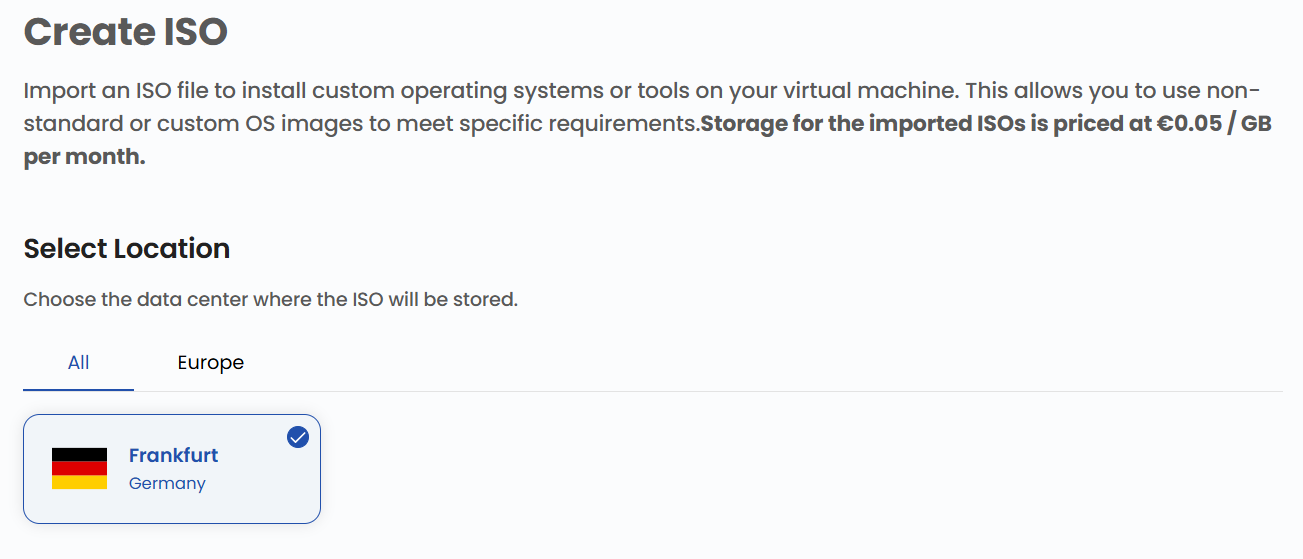
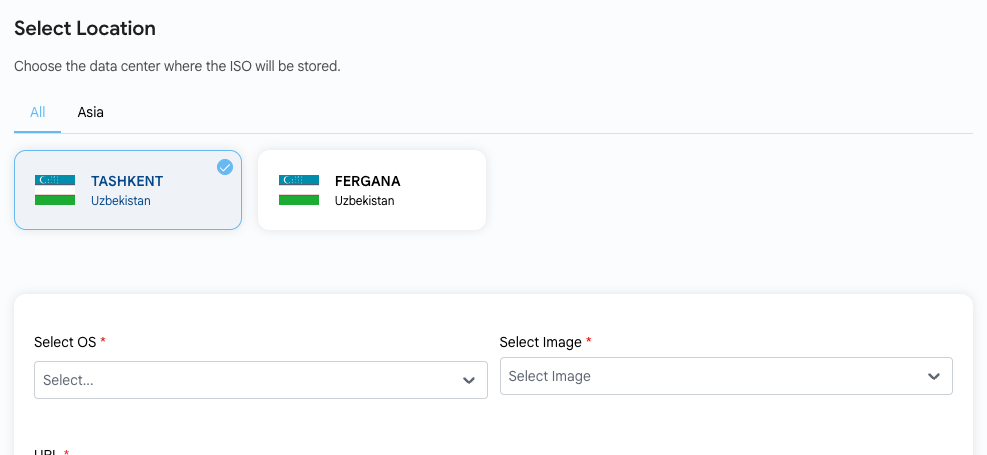
docs: update ISO guide after console review

diff --git a/ru/isos/import-iso.md b/ru/isos/import-iso.md
@@ -2,61 +2,48 @@
 
 ## ISO-образ
 
-**ISO-образ** (по названию стандарта ISO — International Organization for Standardization) — это файл образа диска, содержащий точную копию файловой системы. В UzCloud ISO-образы используются для создания виртуальных машин, установки операционных систем и восстановления системы. В этом руководстве описано, как импортировать ISO-образ в UzCloud, управлять им и использовать его.
+**ISO-образ** — файл образа диска, содержащий точную копию файловой системы. В UzCloud можно импортировать собственный ISO-образ, чтобы установить на виртуальную машину нестандартную операционную систему или инструменты.
 
 ---
 
-### Создание ISO-образа
+### Импорт ISO-образа
 
-- В меню слева откройте вкладку **ISOs**.
-- Чтобы добавить ISO, нажмите **ISOs** или значок **плюс (+)** в правой части страницы. Откроется меню создания ISO.
+- В меню слева нажмите **ISO**. На странице отображаются ваши ISO-образы.
+- Нажмите **Create ISO**. Откроется страница **Create ISO**.
 
-![Страница ISO](../../images/iso-1.png)
+![ISO](../../images/iso-1.png)
 
-### Выбор расположения
+- Выберите проект, к которому будет относиться ISO-образ.
 
-- Выберите дата-центр, в котором будет храниться ISO-образ.
-- Выберите одно из доступных расположений.
+![Выбор проекта](../../images/iso-2.png)
 
-![Выбор расположения](../../images/iso-2.png)
+- Выберите расположение, в котором будет храниться ISO-образ.
 
-### Привязка к проекту
-
-- Привяжите ISO-образ к одному из ваших проектов, чтобы удобно организовывать ресурсы и управлять ими.
-
-![Привязка к проекту](../../images/iso-3.png)
+![Выбор расположения](../../images/iso-3.png)
 
 ### Параметры ISO
 
-При создании ISO нужно заполнить несколько обязательных полей:
+- **Select OS** — операционная система ISO-образа.
+- **Select Image** — тип образа.
+- **URL** — ссылка на ISO-файл, который будет импортирован.
+- **Name** и **Description** — имя и краткое описание ISO-образа.
 
-- **Operating System** — ОС для ISO-образа (например, Windows, Linux, macOS).
-- **OS Version** — конкретная версия выбранной ОС (например, Windows 11, Ubuntu 22.04).
-- **Image** — файл, из которого будет создан ISO.
-- **URL** — корректная ссылка, если ISO-образ размещен в интернете.
-- **Name** — имя ISO-файла для удобной идентификации.
-- **Description** — краткое описание содержимого или назначения ISO.
+Дополнительные параметры:
 
-Также можно выбрать дополнительные параметры:
+- **Password Enabled** — образ поддерживает установку пароля.
+- **Is Bootable** — с этого ISO можно загрузить ВМ (например, для установки ОС).
+- **Is Extractable** — ISO-образ можно скачать (извлечь) после импорта.
 
-- **Password Enabled** — для доступа к содержимому ISO потребуется пароль, что добавляет уровень защиты.
-- **Is Bootable** — определяет, можно ли загружать систему с этого ISO. Если параметр включен, ISO можно записать на USB/DVD и использовать для установки или запуска ОС.
-- **Is Extractable** — позволяет открывать и распаковывать ISO как обычный архив без специальных программ для монтирования.
+Проверьте **Price Summary** (стоимость хранения ISO рассчитывается за ГБ в час) и нажмите **Review & Create ISO**.
 
 ![Параметры ISO](../../images/iso-4.png)
 
-### Создание ISO
-
-- Выберите нужный **Billing Cycle**. Для ISO поддерживается почасовая оплата.
-- Поддерживаемые правила биллинга: Date to Date, Fixed Calendar Month, Unfixed Calendar Month, Fixed Prorata и Unfixed Prorata.
-- Для ISO поддерживается только один пакет на зону — это простая модель учета использования загрузочных образов.
-- Проверьте все параметры и итоговую стоимость. Нажмите **Review & Create ISO**, чтобы создать ISO для проекта.
-
-![Создание ISO](../../images/iso-5.png)
+> [!TIP]
+> Чтобы подключить ISO-образ к виртуальной машине, нажмите **Attach ISO To This Virtual Machine** на странице ВМ.
 
 ### Заключение
 
-Следуя этому руководству, вы легко создадите ISO-образы в UzCloud и сможете управлять ими. ISO-образы — универсальный способ развертывания операционных систем, создания виртуальных машин и восстановления системы. Если нужна помощь, изучите документацию UzCloud или обратитесь в поддержку.
+ISO-образы позволяют установить на виртуальные машины любую операционную систему или инструменты. Если нужна помощь, изучите документацию UzCloud или обратитесь в поддержку.
 
 > [!TIP]
 > **См. также:**

diff --git a/uz/isos/import-iso.md b/uz/isos/import-iso.md
@@ -2,61 +2,48 @@
 
 ## ISO obraz
 
-**ISO obraz** (ISO — International Organization for Standardization standarti nomidan) — fayl tizimining aniq nusxasini oʻz ichiga olgan disk obrazi fayli. UzCloud’da ISO obrazlar virtual mashinalar yaratish, operatsion tizimlarni oʻrnatish va tizimni tiklash uchun ishlatiladi. Ushbu qoʻllanmada UzCloud’ga ISO obrazni import qilish, uni boshqarish va undan foydalanish tushuntiriladi.
+**ISO obraz** — fayl tizimining aniq nusxasini oʻz ichiga olgan disk obrazi fayli. UzCloud’da virtual mashinaga nostandart operatsion tizim yoki vositalarni oʻrnatish uchun oʻz ISO obrazingizni import qilish mumkin.
 
 ---
 
-### ISO obraz yaratish
+### ISO obrazni import qilish
 
-- Chap menyuda **ISOs** yorligʻini oching.
-- ISO qoʻshish uchun sahifaning oʻng tomonidagi **ISOs** yoki **plyus (+)** belgisini bosing. ISO yaratish menyusi ochiladi.
+- Chap menyuda **ISO** ni bosing. Sahifada ISO obrazlaringiz koʻrsatiladi.
+- **Create ISO** tugmasini bosing. **Create ISO** sahifasi ochiladi.
 
-![ISO sahifasi](../../images/iso-1.png)
+![ISO](../../images/iso-1.png)
 
-### Joylashuvni tanlash
+- ISO obraz tegishli boʻladigan loyihani tanlang.
 
-- ISO obraz saqlanadigan maʼlumotlar markazini tanlang.
-- Mavjud joylashuvlardan birini tanlang.
+![Loyihani tanlash](../../images/iso-2.png)
 
-![Joylashuvni tanlash](../../images/iso-2.png)
+- ISO obraz saqlanadigan joylashuvni tanlang.
 
-### Loyihaga biriktirish
-
-- Resurslarni qulay tartibga solish va boshqarish uchun ISO obrazni loyihalaringizdan biriga biriktiring.
-
-![Loyihaga biriktirish](../../images/iso-3.png)
+![Joylashuvni tanlash](../../images/iso-3.png)
 
 ### ISO parametrlari
 
-ISO yaratishda bir nechta majburiy maydonlarni toʻldirish kerak:
+- **Select OS** — ISO obrazning operatsion tizimi.
+- **Select Image** — obraz turi.
+- **URL** — import qilinadigan ISO faylga havola.
+- **Name** va **Description** — ISO obraz nomi va qisqacha tavsifi.
 
-- **Operating System** — ISO obraz uchun OT (masalan, Windows, Linux, macOS).
-- **OS Version** — tanlangan OT’ning aniq versiyasi (masalan, Windows 11, Ubuntu 22.04).
-- **Image** — ISO yaratiladigan fayl.
-- **URL** — agar ISO obraz internetda joylashgan boʻlsa, toʻgʻri havola.
-- **Name** — oson aniqlash uchun ISO fayl nomi.
-- **Description** — ISO tarkibi yoki maqsadining qisqacha tavsifi.
+Qoʻshimcha parametrlar:
 
-Shuningdek, qoʻshimcha parametrlarni tanlash mumkin:
+- **Password Enabled** — obraz parol oʻrnatishni qoʻllab-quvvatlaydi.
+- **Is Bootable** — VM’ni ushbu ISO’dan yuklash mumkin (masalan, OT oʻrnatish uchun).
+- **Is Extractable** — import qilingandan soʻng ISO obrazni yuklab olish mumkin.
 
-- **Password Enabled** — ISO tarkibiga kirish uchun parol talab qilinadi, bu qoʻshimcha himoya qatlamini qoʻshadi.
-- **Is Bootable** — ushbu ISO’dan tizimni yuklash mumkinligini belgilaydi. Parametr yoqilgan boʻlsa, ISO’ni USB/DVD’ga yozib, OT’ni oʻrnatish yoki ishga tushirish uchun ishlatish mumkin.
-- **Is Extractable** — ISO’ni maxsus montaj dasturlarisiz oddiy arxiv kabi ochish va chiqarib olish imkonini beradi.
+**Price Summary** ni tekshiring (ISO’ni saqlash narxi har bir GB uchun soatiga hisoblanadi) va **Review & Create ISO** tugmasini bosing.
 
 ![ISO parametrlari](../../images/iso-4.png)
 
-### ISO yaratish
-
-- Kerakli **Billing Cycle** ni tanlang. ISO uchun soatlik toʻlov qoʻllab-quvvatlanadi.
-- Qoʻllab-quvvatlanadigan billing qoidalari: Date to Date, Fixed Calendar Month, Unfixed Calendar Month, Fixed Prorata va Unfixed Prorata.
-- ISO uchun har bir zonada faqat bitta paket qoʻllab-quvvatlanadi — bu yuklanadigan obrazlardan foydalanishni hisobga olishning oddiy modeli.
-- Barcha parametrlarni va umumiy narxni tekshiring. Loyiha uchun ISO yaratish maqsadida **Review & Create ISO** tugmasini bosing.
-
-![ISO yaratish](../../images/iso-5.png)
+> [!TIP]
+> ISO obrazni virtual mashinaga ulash uchun VM sahifasida **Attach ISO To This Virtual Machine** ni bosing.
 
 ### Xulosa
 
-Ushbu qoʻllanmaga amal qilib, siz UzCloud’da ISO obrazlarni osongina yaratishingiz va boshqarishingiz mumkin. ISO obrazlar operatsion tizimlarni joylashtirish, virtual mashinalar yaratish va tizimni tiklashning universal usulidir. Yordam kerak boʻlsa, UzCloud hujjatlarini oʻrganing yoki qoʻllab-quvvatlash xizmatiga murojaat qiling.
+ISO obrazlar virtual mashinalarga istalgan operatsion tizim yoki vositalarni oʻrnatish imkonini beradi. Yordam kerak boʻlsa, UzCloud hujjatlarini oʻrganing yoki qoʻllab-quvvatlash xizmatiga murojaat qiling.
 
 > [!TIP]
 > **Shuningdek qarang:**

diff --git a/en/isos/import-iso.md b/en/isos/import-iso.md
@@ -2,61 +2,48 @@
 
 ## ISO Image
 
-An **ISO (International Organization for Standardization)** image is a disk image file that contains an exact copy of a filesystem. In UzCloud, ISO images are used to create virtual machines, install operating systems, or perform system recovery. This guide explains how to import, manage, and deploy an ISO image in UzCloud.
+An **ISO image** is a disk image file that contains an exact copy of a file system. In UzCloud, you can import your own ISO image to install custom operating systems or tools on a virtual machine.
 
 ---
 
-### Creating an ISO Image
+### Importing an ISO Image
 
-- From the left-hand side menu, click on the **ISOs** tab.
-- To create an ISO, click the **ISOs** or **plus (+)** icon located on the right side of the page. This will open the ISO creation menu.
+- From the left-hand menu, click **ISO**. The page shows your ISO images.
+- Click **Create ISO**. The **Create ISO** page opens.
 
-![ISOs Page](../../images/iso-1.png)
+![ISO](../../images/iso-1.png)
 
-### Choose a Location
+- Select the project to which the ISO will belong.
 
-- Select the data center location where your ISO will be stored.
-- Choose from the available locations listed.
+![Choose Project](../../images/iso-2.png)
 
-![Choose Location](../../images/iso-2.png)
+- Select the location where the ISO will be stored.
 
-### Assign to a Project
-
-- Assign the ISO to one of your projects to organize and manage resources effectively.
-
-![Assign to Project](../../images/iso-3.png)
+![Choose Location](../../images/iso-3.png)
 
 ### ISO Details
 
-When creating an ISO, you need to fill out the details with several required fields:
+- **Select OS** — the operating system of the ISO image.
+- **Select Image** — the image type.
+- **URL** — a link to the ISO file that will be imported.
+- **Name** and **Description** — a name and a short description of the ISO.
 
-- **Operating System**: Choose the OS you want for the ISO (e.g., Windows, Linux, macOS).
-- **OS Version**: Select the specific version of the chosen OS (e.g., Windows 11, Ubuntu 22.04).
-- **Image**: Select the actual file that will be used to create the ISO.
-- **URL**: Provide a valid URL if the ISO is hosted online.
-- **Name**: Give your ISO file a name for easy identification.
-- **Description**: Write a short description of what the ISO contains or its purpose.
+Optional settings:
 
-Additionally, you can select from advanced options for the ISO:
+- **Password Enabled** — the image supports setting a password.
+- **Is Bootable** — the VM can boot from this ISO (for example, to install an OS).
+- **Is Extractable** — the ISO can be downloaded (extracted) after import.
 
-- **Password Enabled**: If selected, the ISO will require a password to access its contents, adding an extra layer of security.
-- **Is Bootable**: This determines whether the ISO can be used to boot a system. If enabled, the ISO can be written to a USB/DVD and used to install or run an OS.
-- **Is Extractable**: This option allows the ISO to be opened and extracted like a normal archive without requiring special mounting software.
+Check the **Price Summary** (the cost of storing the ISO is calculated per GB per hour) and click **Review & Create ISO**.
 
 ![ISO Details](../../images/iso-4.png)
 
-### Create ISO
-
-- Choose the desired **Billing Cycle** for your ISO. ISO supports Hourly billing cycles.
-- The billing rules supported include Date to Date, Fixed Calendar Month, Unfixed Calendar Month, Fixed Prorata, and Unfixed Prorata.
-- Only one package per zone is supported for ISO. This provides a straightforward model for managing bootable image usage.
-- Verify all the configuration details and review the price summary. Click on **Review & Create ISO** to create the ISO for your project.
-
-![Create ISO](../../images/iso-5.png)
+> [!TIP]
+> To attach an ISO to a virtual machine, click **Attach ISO To This Virtual Machine** on the instance page.
 
 ### Conclusion
 
-By following this guide, you can easily create and manage ISO images on UzCloud. ISO images provide a versatile way to deploy operating systems, create virtual machines, or perform system recovery. For further assistance, refer to the UzCloud documentation or reach out to support.
+ISO images let you install any operating system or tools on your virtual machines. For further assistance, refer to the UzCloud documentation or reach out to support.
 
 > [!TIP]
 > **See also:**
